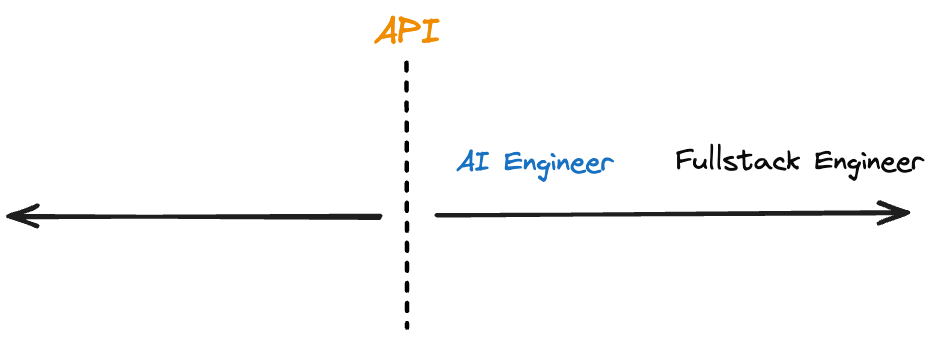
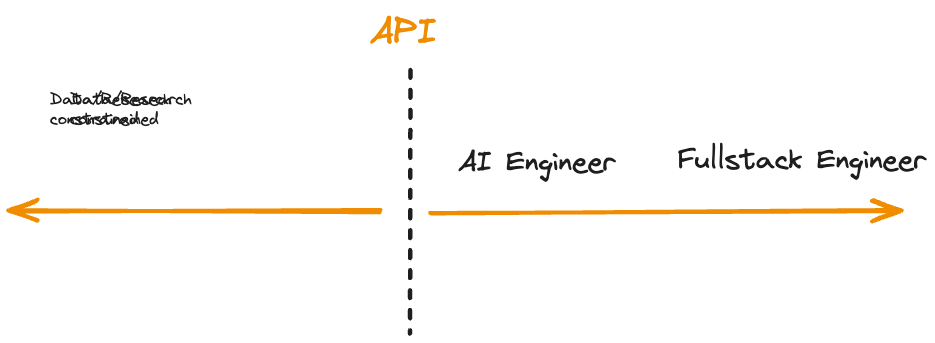
learning note vault backup: 2024-09-03 18:22:33

diff --git a/Excalidraw/AI Engineer.md b/Excalidraw/AI Engineer.md
@@ -14,6 +14,14 @@ API ^7X5Hw86g
 
 Fullstack Engineer ^zfrqPWx9
 
+Data/Research
+constrained ^ZyS0hF0k
+
+Product/User
+constrained ^O2SydFQa
+
+ML Researcher ^xfe1jk7c
+
 %%
 # Drawing
 ```compressed-json
@@ -23,114 +31,148 @@ ZMzYBXUtiRoIACyhQ4zZAHoFAc0JRJQgEYA6bGwC2CgF7N6hbEcK4OCtptbErHAL
 
[1 lines of base64/hex data omitted]
 
[2 lines of base64/hex data omitted]
 
[2 lines of base64/hex data omitted]
 
[2 lines of base64/hex data omitted]
 
[2 lines of base64/hex data omitted]
 
[2 lines of base64/hex data omitted]
 
[2 lines of base64/hex data omitted]
 
[2 lines of base64/hex data omitted]
 
[2 lines of base64/hex data omitted]
 
[2 lines of base64/hex data omitted]
 
[2 lines of base64/hex data omitted]
 
[2 lines of base64/hex data omitted]
 
[2 lines of base64/hex data omitted]
 
[2 lines of base64/hex data omitted]
 
[2 lines of base64/hex data omitted]
 
[2 lines of base64/hex data omitted]
 
[2 lines of base64/hex data omitted]
 
[2 lines of base64/hex data omitted]
 
[2 lines of base64/hex data omitted]
 
[2 lines of base64/hex data omitted]
 
[2 lines of base64/hex data omitted]
 
[2 lines of base64/hex data omitted]
 
[2 lines of base64/hex data omitted]
 
[2 lines of base64/hex data omitted]
 
[2 lines of base64/hex data omitted]
 
[2 lines of base64/hex data omitted]
 
[2 lines of base64/hex data omitted]
 
[2 lines of base64/hex data omitted]
 
[2 lines of base64/hex data omitted]
 
[2 lines of base64/hex data omitted]
 
[2 lines of base64/hex data omitted]
 
[2 lines of base64/hex data omitted]
 
[2 lines of base64/hex data omitted]
 
[2 lines of base64/hex data omitted]
 
[2 lines of base64/hex data omitted]
 
[2 lines of base64/hex data omitted]
 
[2 lines of base64/hex data omitted]
 
[2 lines of base64/hex data omitted]
 
[2 lines of base64/hex data omitted]
 
[2 lines of base64/hex data omitted]
 
[2 lines of base64/hex data omitted]
 
[2 lines of base64/hex data omitted]
 
[2 lines of base64/hex data omitted]
 
[2 lines of base64/hex data omitted]
 
[2 lines of base64/hex data omitted]
 
[2 lines of base64/hex data omitted]
 
[2 lines of base64/hex data omitted]
 
[2 lines of base64/hex data omitted]
 
[2 lines of base64/hex data omitted]
 
[2 lines of base64/hex data omitted]
 
[2 lines of base64/hex data omitted]
 
[2 lines of base64/hex data omitted]
 
[2 lines of base64/hex data omitted]
 
[2 lines of base64/hex data omitted]
 
[2 lines of base64/hex data omitted]
 
-mUFppbmgI4SyEIFAFrqgI4XJOAGTBAClOEATIOCAIOEAA===
[1 lines of base64/hex data omitted]
+
[1 lines of base64/hex data omitted]
+
[1 lines of base64/hex data omitted]
+
[1 lines of base64/hex data omitted]
+
[1 lines of base64/hex data omitted]
+
[1 lines of base64/hex data omitted]
+
[1 lines of base64/hex data omitted]
+
[1 lines of base64/hex data omitted]
+
[1 lines of base64/hex data omitted]
+
[1 lines of base64/hex data omitted]
+
[1 lines of base64/hex data omitted]
+
[1 lines of base64/hex data omitted]
+
[1 lines of base64/hex data omitted]
+
[1 lines of base64/hex data omitted]
+
[1 lines of base64/hex data omitted]
+
[1 lines of base64/hex data omitted]
+
[1 lines of base64/hex data omitted]
+
+AC/VAKKvScAemCAXKcISmZcEAZcIAA==
 ```
 %%

diff --git a/Excalidraw/Scripts/Downloaded/Darken background color.md b/Excalidraw/Scripts/Downloaded/Darken background color.md
@@ -1,0 +1,52 @@
+/*
+![](https://raw.githubusercontent.com/zsviczian/obsidian-excalidraw-plugin/master/images/scripts-download-raw.jpg)
+
+Download this file and save to your Obsidian Vault including the first line, or open it in "Raw" and copy the entire contents to Obsidian.
+
+![](https://raw.githubusercontent.com/zsviczian/obsidian-excalidraw-plugin/master/images/darken-lighten-background-color.png)
+
+This script darkens the background color of the selected element by 2% at a time. 
+
+You can use this script several times until you are satisfied. It is recommended to set a shortcut key for this script so that you can quickly try to DARKEN and LIGHTEN the color effect.
+
+In contrast to the `Modify background color opacity` script, the advantage is that the background color of the element is not affected by the canvas color, and the color value does not appear in a strange rgba() form.
+
+The color conversion method was copied from [color-convert](https://github.com/Qix-/color-convert).
+
+```javascript
+*/
+
+if(!ea.verifyMinimumPluginVersion || !ea.verifyMinimumPluginVersion("1.7.19")) {
+  new Notice("This script requires a newer version of Excalidraw. Please install the latest version.");
+  return;
+}
+
+let settings = ea.getScriptSettings();
+//set default values on first run
+if(!settings["Step size"]) {
+  settings = {
+    "Step size" : {
+      value: 2,
+      description: "Step size in percentage for making the color darker"
+    }
+  };
+  ea.setScriptSettings(settings);
+}
+
+const step = settings["Step size"].value;
+
+const elements = ea
+  .getViewSelectedElements()
+  .filter((el) =>
+    ["rectangle", "ellipse", "diamond", "image", "line", "freedraw"].includes(el.type)
+  );
+ea.copyViewElementsToEAforEditing(elements);
+for (const el of ea.getElements()) {
+  const color = ea.colorNameToHex(el.backgroundColor);
+  const cm = ea.getCM(color);
+  if (cm) {
+	  const darker = cm.darkerBy(step);
+	  if(Math.floor(darker.lightness)>0) el.backgroundColor = darker.stringHSL();
+  }
+}
+await ea.addElementsToView(false, false);
